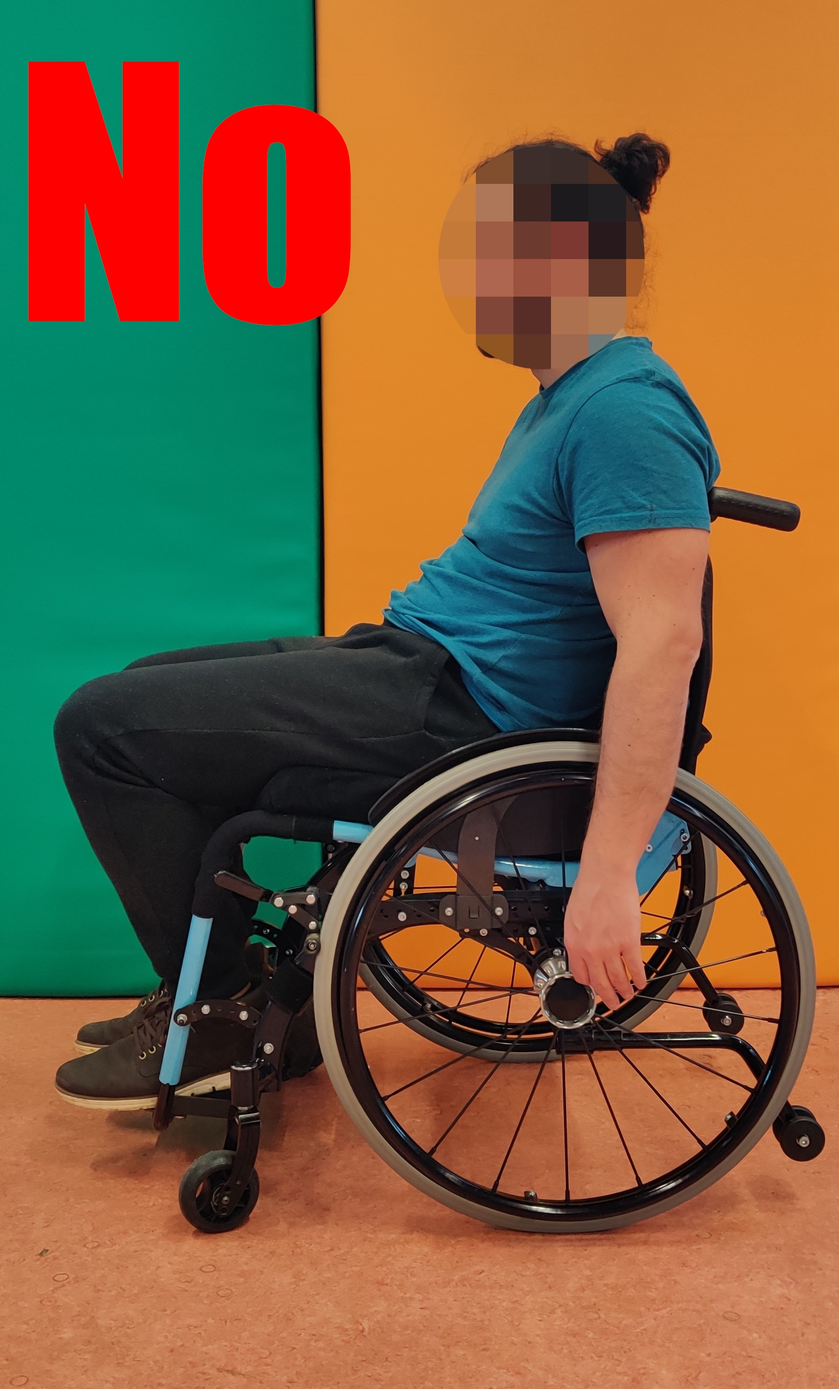
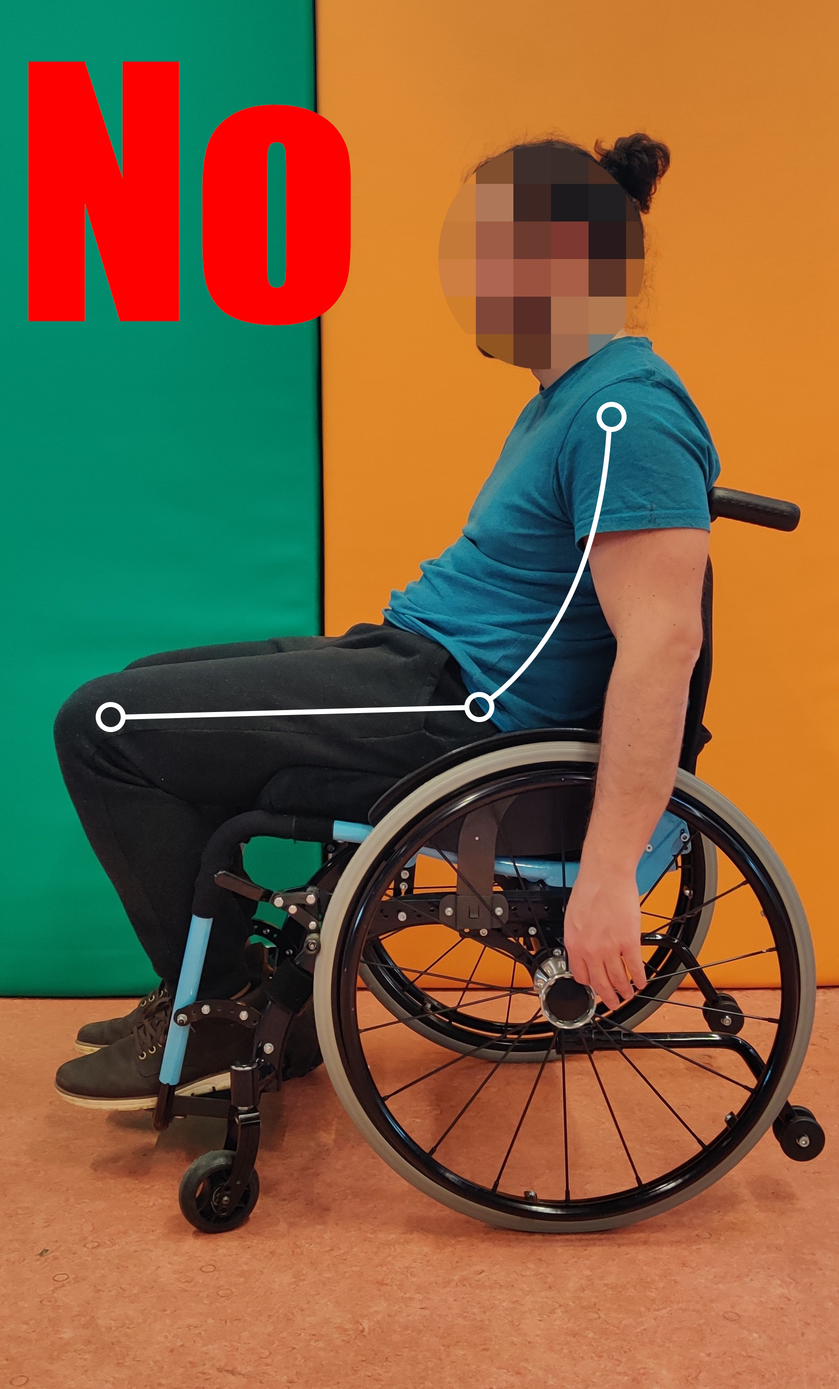
corrette foto e testo postura e trasferimenti (olmo)

diff --git a/articles/postura-e-trasferimenti.html b/articles/postura-e-trasferimenti.html
@@ -5,8 +5,8 @@
     <ul>
         <li><strong>Lesioni da pressione:</strong> per capire cosa sono e come prevenirle leggi il capitolo <a href="article.php?name=cura-della-pelle">cura della pelle</a>. Come leggerai, oltre all’abitudine di spostare il peso più volte durante la
             giornata, è necessario che tu prenda quella di avere sempre una corretta postura in
-            carrozzina e di posizionarti bene a letto, per evitare così forze di taglio, stiramenti o
-            pressioni eccessive su alcune zone chiave della tua pelle.
+            carrozzina e di posizionarti bene a letto, per evitare così forze di taglio, stiramenti o pressioni eccessive,
+             in particolare sulle zone della tua pelle a maggior rischio. 
         </li>
         <li><strong>Scoliosi:</strong> è una deformazione della colonna vertebrale che porta a deviazioni rispetto
             alle curve fisiologiche. Questo può avere gravi conseguenze come: accorciamenti
@@ -24,7 +24,8 @@
             <a href="article.php?name=problemi-associati">problemi associati</a>). Se non corrette possono portare ad un vero e proprio
             “blocco” articolare (anchilosi).
         </li>
-        <li><strong>Complicanze cardiorespiratorie:</strong> alterazioni posturali strutturate a carico della colonna vertebrale e della gabbia toracica possono influenzare con con effetti negativi la funzione dei polmoni e del cuore.</li>
+        <li><strong>Complicanze cardiorespiratorie:</strong> alterazioni posturali strutturate a carico della colonna vertebrale e della gabbia toracica possono influenzare 
+            negativamente la funzione dei polmoni e del cuore.</li>
     </ul>
     <ul id="index" class="list-group">
         <li class="list-group-item"><a href="#postura-in-carrozzina">Postura in carrozzina</a></li>
@@ -48,37 +49,34 @@
         lesione per controllare e correggere la tua postura.
     </p>
 
-    <div class="banner"><strong>Quando ti posizioni sulla carrozzina, devi sederti con la parte inferiore sul retro
-        del sedile ben appoggiata allo schienale, il tronco e la testa simmetrici, tutti e quattro gli
-        arti in appoggio nel normale allineamento, il peso distribuito uniformemente su un'area
-        ampia come possibile e le curve anatomiche della colonna vertebrale mantenute.</strong>
+    <div class="banner"><strong>Quando ti posizioni sulla carrozzina, devi sederti con il bacino, o meglio con il sedere, sul retro del sedile, ben appoggiata allo schienale; 
+        il tronco e la testa centrati e simmetrici; le curve anatomiche della colonna vertebrale mantenute; gli arti in appoggio nel normale allineamento;
+         il peso distribuito uniformemente su un'area ampia quanto possibile.</strong>
     </div>
 
-    <p>Di seguito trovi un elenco degli elementi più importanti di una postura corretta in carrozzina
-        e cosa invece evitare, ma ricorda prima di tutto di seguire le indicazioni del tuo
+    <p>Di seguito trovi un elenco degli elementi basilari che ti aiutano a mantenere una postura corretta in carrozzina
+        ed errori comuni da evitare, ma ricorda prima di tutto di seguire le indicazioni del tuo
         fisioterapista, il quale potrebbe indicarti alcune modifiche posturali personalizzate.
     </p>
     <ul>
         <li><strong>Comodità:</strong> mantenere la corretta postura in carrozzina dovrebbe essere facile e
-            comodo, se per seguire i consigli del fisioterapista devi stare scomodo o affaticarti, è
+            comodo, se così non fosse è
             probabile che vadano riviste alcune regolazioni della carrozzina.
         </li>
-        <li><strong>Scivolamento in avanti del sedere:</strong> da evitare, in quanto crea forze di taglio che
-            possono favorire la formazione di lesioni da pressione. Cerca quindi di posizionarti
-            indietro col sedere e, se ti accorgi che ti devi riposizionare troppo spesso, parla col
-            tuo fisioterapista per considerare una possibile modifica al cuscino o alla carrozzina.
-            Le stesse considerazioni devono essere fatte se il sedere si inclina o ruota verso un
-            lato. Considera inoltre che ogni deviazione della posizione del sedere porta con sé
-            una conseguente alterazione della postura della schiena.
+        <li><strong>Scivolamento in avanti del sedere:</strong> da evitare sempre, in quanto crea forze di taglio che possono favorire la formazione di lesioni da pressione (in genere sul sacro).
+             Cerca quindi di posizionarti col sedere ben indietro rispetto alla seduta della carrozzina, fino a toccare la parte bassa dello schienale.
+              Se ti accorgi che durante la giornata il sedere scivola frequentemente in avanti, oppure si inclina o ruota verso un lato, parla col tuo fisioterapista 
+              per considerare una possibile modifica al cuscino o alla carrozzina.
+             Considera che ogni deviazione della posizione del sedere porta con sé una conseguente alterazione della postura della schiena.
         </li>
         <li><strong>Schiena dritta e appoggiata allo schienale:</strong> dovresti sempre essere in grado di
             appoggiare la tua schiena comodamente allo schienale della carrozzina, senza
             ritrovarti troppo flesso in avanti o indietro, né piegato da un lato. Se mantenere la
             schiena dritta ti è difficile o ti affatica troppo è possibile che vada modificata
-            l’angolazione o l’altezza dello schienale.
+            l’angolazione, l’altezza o la forma dello schienale.
         </li>
         <li><strong>Uso dei braccioli (se previsti per la tua carrozzina):</strong> i braccioli ti consentono di
-            appoggiare le braccia e scaricare il loro peso senza sforzare le spalle e alleggerendo il
+            appoggiare le braccia e scaricare il loro peso senza sforzare le spalle e di alleggerire il
             carico sugli ischi. Sono regolati ad un’altezza pensata appositamente per svolgere
             correttamente questa funzione, quindi se devi rimuoverli attento a rimetterli nella
             stessa posizione.
@@ -88,9 +86,9 @@
             scivolamento del sedere in avanti.
         </li>
     </ul>
-    <p>Cerca quindi di prestare sempre attenzione alla tua posizione nella carrozzina e, se puoi,
+    <p>Presta sempre attenzione alla tua posizione nella carrozzina e, se puoi,
         correggi immediatamente posture scorrette, se invece non sei in grado di riposizionarti
-        autonomamente chiedilo al tuo caregiver.
+        autonomamente chiedi aiuto al tuo caregiver.
     </p>
 
     <div class="oneline-canvas">
@@ -111,23 +109,25 @@
     <p>Quando sei a letto è necessario che tu sia correttamente posizionato supino (a pancia in su),
         prono (a pancia in giù) o sul fianco e che tali posture siano modificate ad intervalli regolari.
         Le regioni cutanee a rischio devono essere rigorosamente protette da materiale
-        antidecubito e mantenute in posizione con l’ausilio di cuscini o supporti adeguati. Inoltre, le
-        articolazioni non devono essere in posizioni che possano danneggiarle stirando i tessuti
-        capsulari o tendinei. La frequenza dei cambi posturali dipenderà dalle tue caratteristiche e
+        antidecubito e mantenute in posizione con l’ausilio di cuscini o supporti simili. Inoltre, le
+        articolazioni non devono essere in posizioni che possano danneggiarle stirando tessuti come
+        tendini e legamenti. La frequenza dei cambi posturali dipenderà dalle tue caratteristiche e
         quindi ti saranno dati consigli personalizzati dal tuo fisioterapista in base alle tue esigenze.
-        In linea generale la postura supina va modificata almeno ogni 2 ore, mentre il decubito
-        prono può essere mantenuto per periodi più prolungati senza necessità di spostamenti:
-        durante la notte può consentire di dormire otto ore senza interruzione, previene le
-        deformità in flessione di anche e ginocchia e riduce l’ipertono agli arti inferiori. La posizione
-        prona va evitata nell’immediato periodo post-traumatico e se hai difficoltà respiratorie. In
-        postura supina è necessario fare molta attenzione alla regione sacrale e ai talloni; in
-        decubito laterale è importante proteggere le ginocchia, i trocanteri e i malleoli. La posizione
-        laterale a 90° è la meno consigliata per l’alta pressione che va a creare sui trocanteri.
-        Un’altra posizione da poter assumere a letto, soprattutto durante il giorno, è quella
-        semiseduta, che ti può permettere di socializzare o mangiare, se hai bisogno di rimanere a
-        letto.
-        Qui sotto troverai delle immagini per ogni posizione che puoi assumere a letto con accanto
-        una breve descrizione.
+        In linea generale ogni tipo di posizionamento va modificato almeno ogni 2 ore in assenza di
+        materasso antidecubito, fino a ogni 6 ore in presenza di materasso antidecubito e in base
+        alla risposta individuale. La posizione prona ha il vantaggio di poter essere mantenuta per
+        periodi più prolungati senza necessità di spostamenti (durante la notte può consentire di
+        dormire otto ore senza interruzione), di prevenire le deformità in flessione di anche e
+        ginocchia e di ridurre l’ipertono agli arti inferiori. La posizione prona va evitata
+        nell’immediato periodo post-traumatico e se sono presenti difficoltà respiratorie. In
+        posizione supina è necessario fare molta attenzione alla regione sacrale e ai talloni per il
+        rischio di lesioni da pressione; in decubito laterale è importante proteggere le ginocchia, i
+        trocanteri e i malleoli. La posizione laterale a 90° è la meno consigliata per l’alta pressione
+        che va a creare sui trocanteri. Un’altra posizione da poter assumere a letto, soprattutto
+        durante il giorno, è quella semiseduta, che ti può permettere di socializzare o mangiare, se
+        hai bisogno di rimanere a letto.
+        Qui sotto troverai delle immagini e una breve descrizione per ogni posizione che puoi
+        assumere a letto.
     </p>
 
 
@@ -138,7 +138,7 @@
     <ul>
         <li class="m-3"><strong>Supino:</strong> un cuscino sostiene la testa, il collo e la parte superiore delle spalle. Un
             cuscino (o più) sostiene le gambe, evitando così l’appoggio dei talloni sul letto. Un
-            cuscino, in fondo al letto, sostiene la pianta del piede e può servire ad alleggerire il
+            cuscino, in fondo al letto, sostiene la pianta del piede e alleggerisce il
             peso delle coperte. Puoi utilizzare dei cuscini su cui appoggiare le braccia lungo i
             fianchi. Controlla di essere disposto al centro del letto.
             <div class="row" style="margin: 2rem 0 5rem;">
@@ -147,10 +147,10 @@
                 </div>
             </div>
         </li>
-        <li class="m-3"><strong>Semiseduto 30°:</strong> i due snodi del letto sono inclinati a 30°. Un cuscino sostiene la
+        <li class="m-3"><strong>Semiseduto 30°:</strong> i due snodi del letto (se hai un letto articolato) sono inclinati a 30°. Un cuscino sostiene la
             testa, il collo e la parte superiore delle spalle. Un cuscino sostiene le gambe,
             evitando così l’appoggio dei talloni sul letto. Un cuscino (o più), in fondo al letto,
-            sostiene la pianta del piede e può servire ad alleggerire il peso delle coperte. Puoi
+            sostiene la pianta del piede e alleggerisce il peso delle coperte. Puoi
             utilizzare dei cuscini su cui appoggiare le braccia lungo i fianchi. Controlla di essere
             disposto al centro del letto e che il tuo bacino sia ben posizionato nella depressione
             creata dal primo snodo.
@@ -173,7 +173,7 @@
             urti dei piedi contro la pediera del letto. Se necessario puoi utilizzare un piccolo
             cuscino o un supporto di gommapiuma foderato, per tenere il malleolo sollevato dal
             letto/cuscino. Puoi utilizzare un cuscino per appoggiare il braccio superiore in una
-            posizione più comoda.
+            posizione più comoda ed evitare che cadendo all’indietro possa stirare l’articolazione della spalla.
             <div class="twocol-canvas">
                 <div class="row">
                     <div class="col-12 col-md-6"><img class="img-fluid rounded" src="assets/img/postura-e-trasferimenti/laterale-30.jpg"></div>
@@ -190,7 +190,7 @@
             la gamba superiore, leggermente piegata e spostata in avanti, in modo che sia
             parallela al letto. Un cuscino dietro la schiena aiuta a sostenere il tronco in posizione. Un cuscino in fondo al letto previene eventuali urti dei piedi contro
             la pediera del letto. Puoi utilizzare un cuscino per appoggiare il braccio superiore in
-            una posizione più comoda.
+            una posizione più comoda ed evitare che cadendo all’indietro possa stirare l’articolazione della spalla.
             <div class="oneline-canvas">
                 <div class="row">
                     <div class="col-12 col-md-6">
